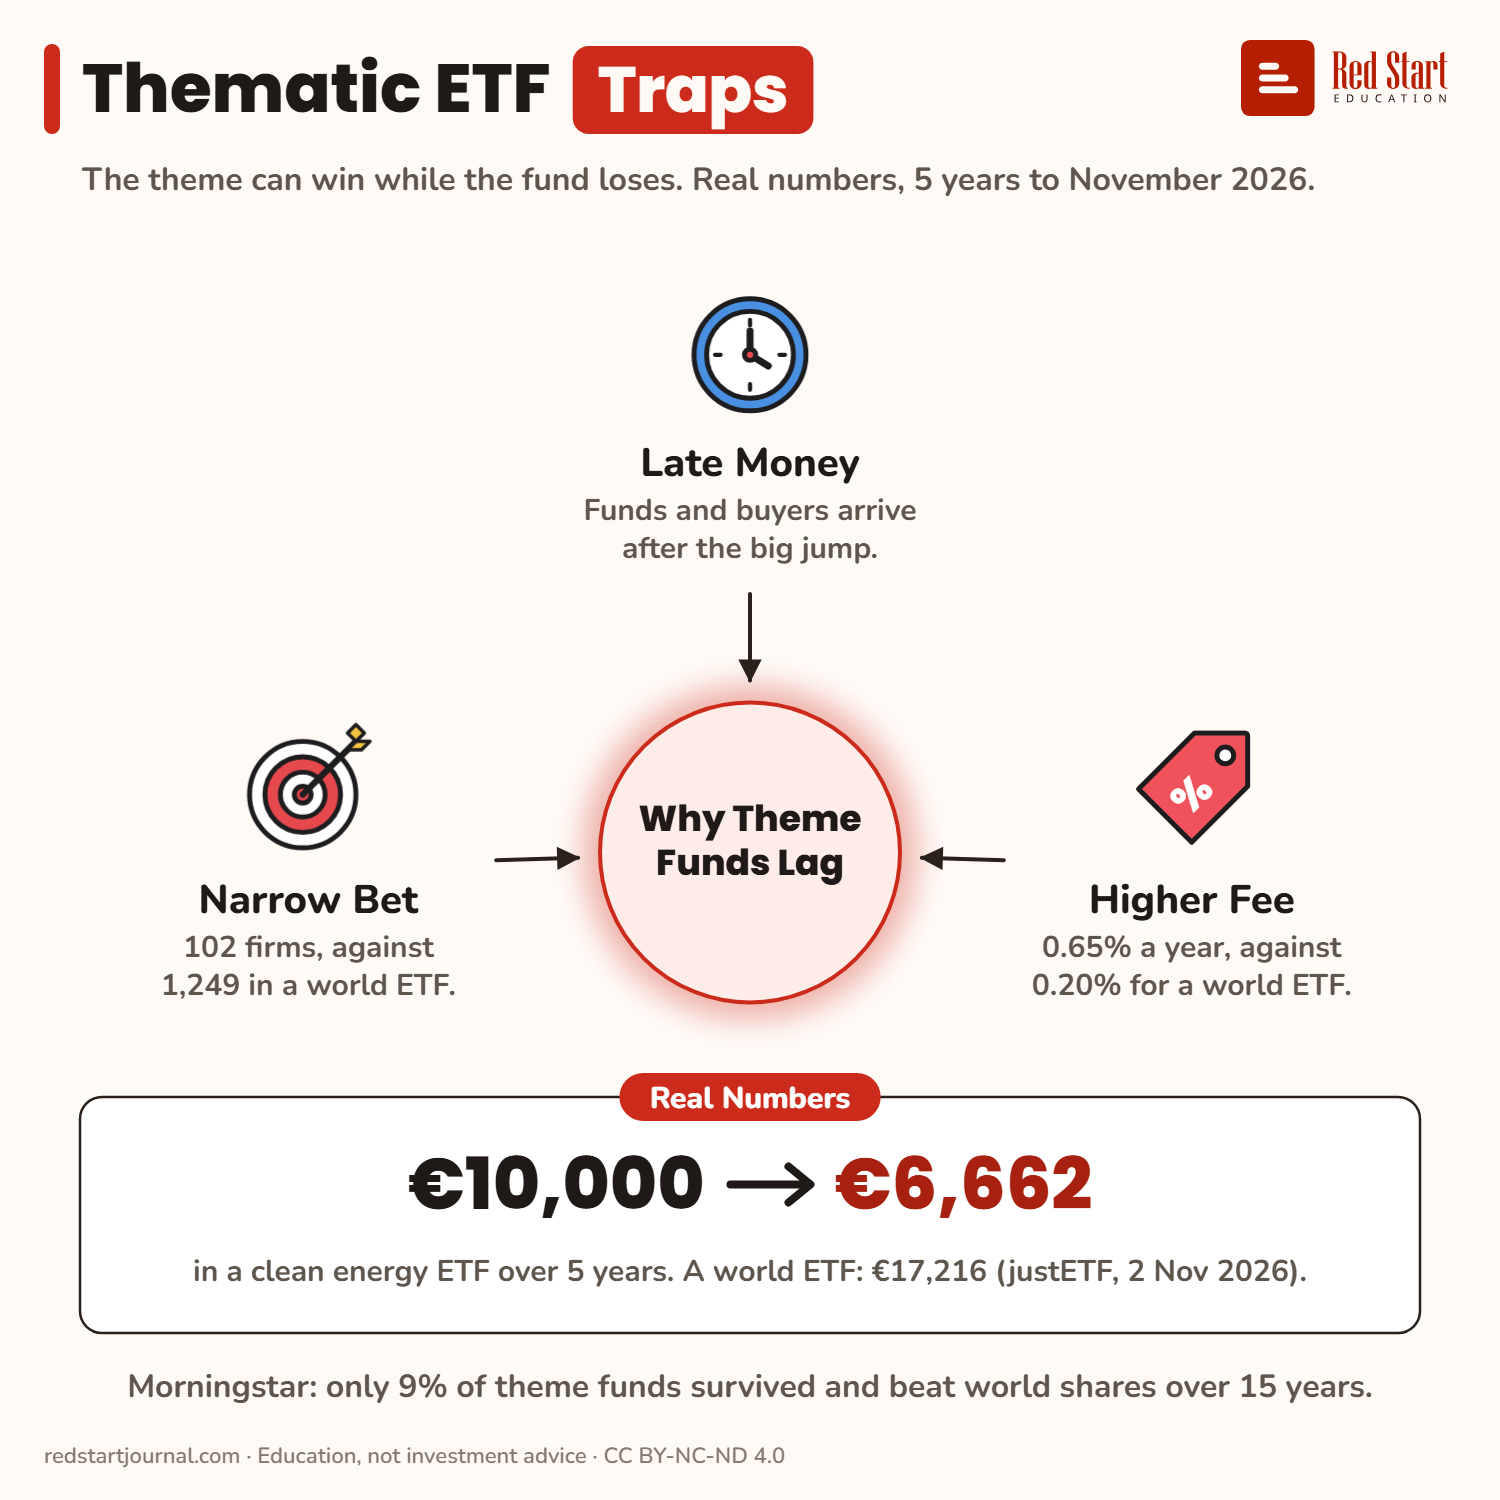
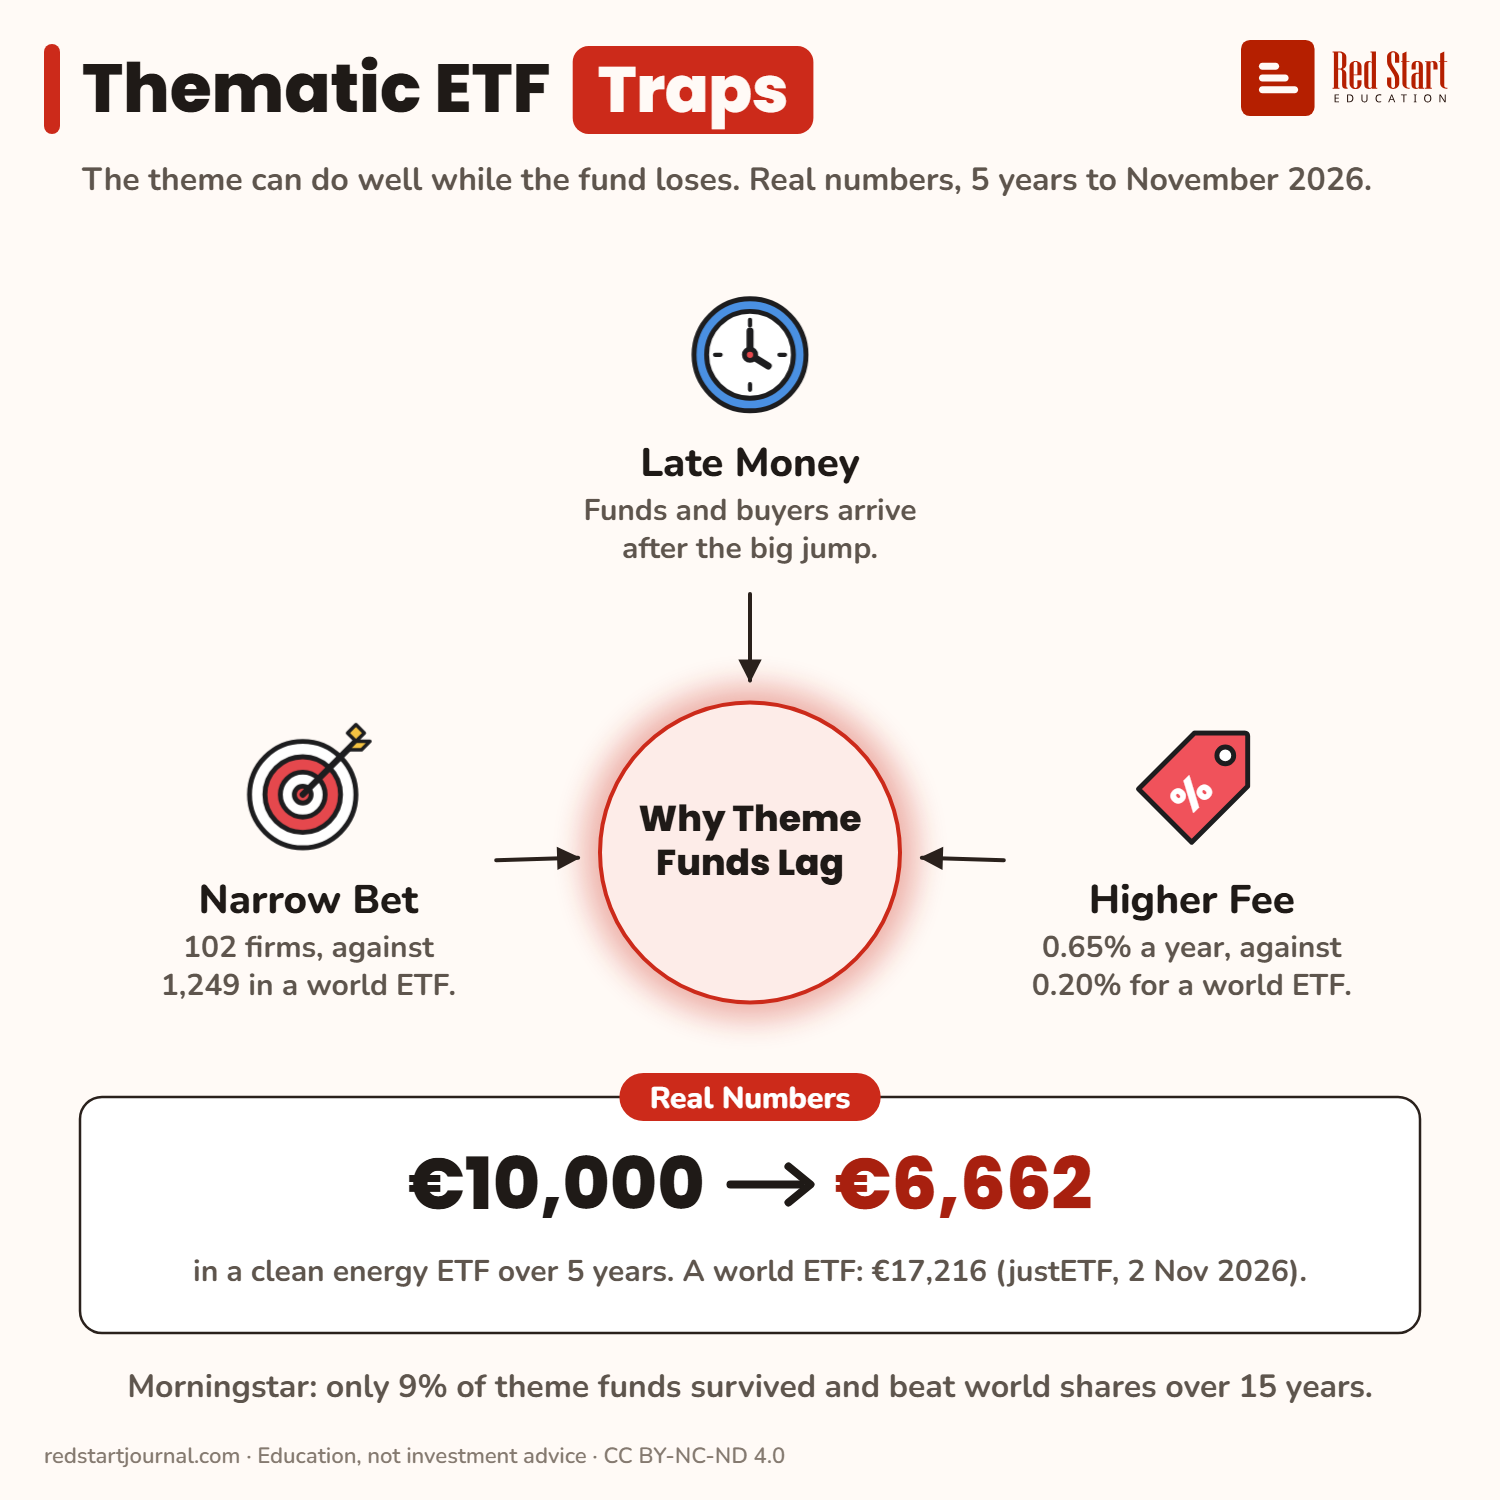
Update Thematic ETF Traps

Changed region(s): [[0.368, 0.092, 0.92, 0.1227], [0.2147, 0.092, 0.3373, 0.1227]]

diff --git a/sheets/funds-and-etfs/thematic-etf-traps.md b/sheets/funds-and-etfs/thematic-etf-traps.md
@@ -2,12 +2,12 @@
 
 ![Thematic ETF Traps](thematic-etf-traps.png)
 
-€10,000 in a clean energy ETF became €6,662 in 5 years; in a world ETF, €17,216. The theme can win while the fund loses.
+€10,000 in a clean energy ETF became €6,662 in 5 years; in a world ETF, €17,216. The theme can do well while the fund loses.
 
 ## What the sheet says
 
 Thematic ETF Traps.
-The theme can win while the fund loses. Real numbers, 5 years to November 2026.
+The theme can do well while the fund loses. Real numbers, 5 years to November 2026.
 
 In the centre: why theme funds lag.
 Late Money: funds and buyers arrive after the big jump.
